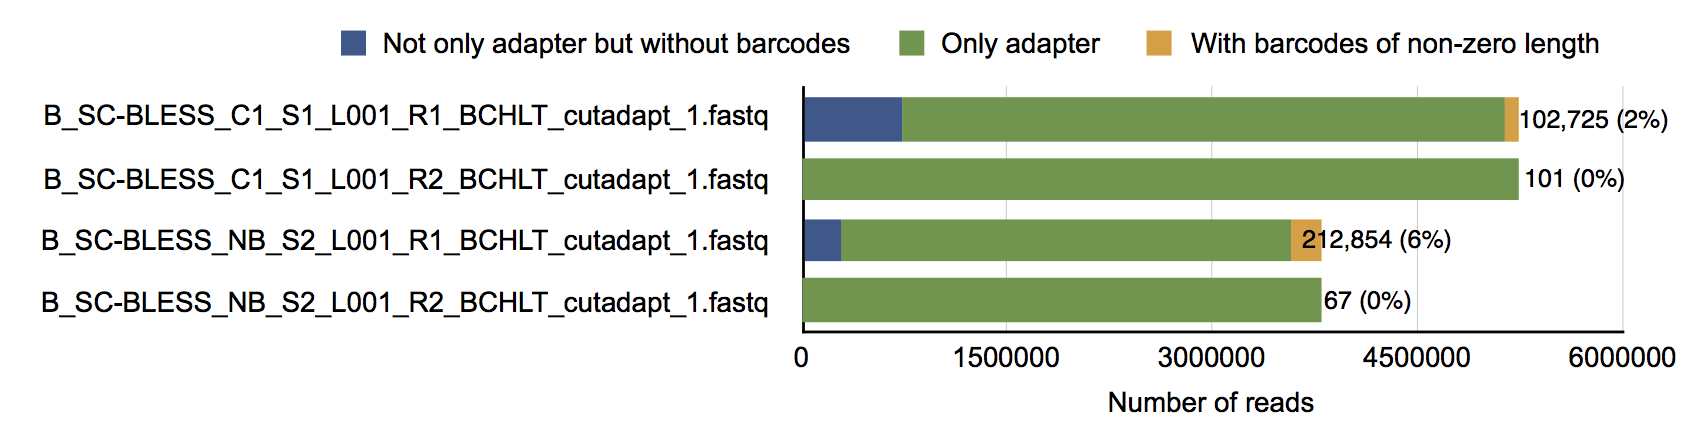
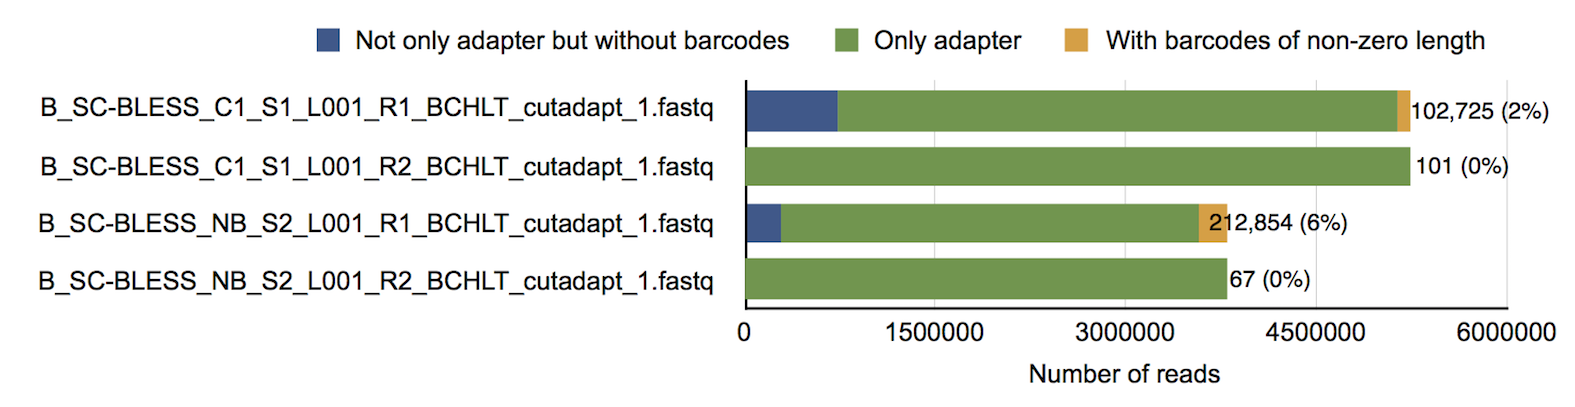
Added plot

diff --git a/README.md b/README.md
@@ -48,5 +48,5 @@ The input fastq files were downloaded from [here](http://bio4.cent.uw.edu.pl/BCH
 
 The script [`get_cutadapt_stats.py`](scripts/get_cutadapt_stats.py) writes a table with trimming statistics: `python scripts/get_cutadapt_stats.py`. The plot below (from `analysis/cutadapt_stats.keynote`) shows numbers of reads after trimming and with barcodes for the respective fastq files.
 
-![im](https://github.com/surykartka/BLISS_test/blob/master/analysis/cutadapt_stats.png =600x)
+![alt text](analysis/cutadapt_stats.png)
 
